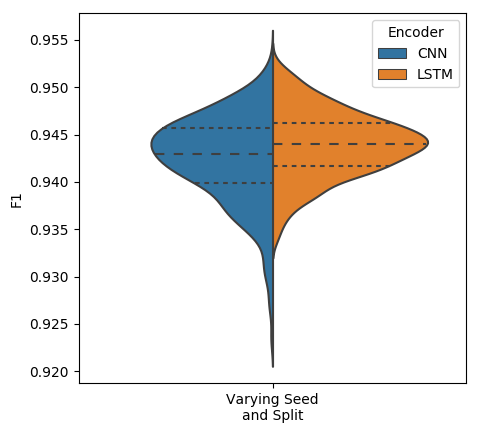
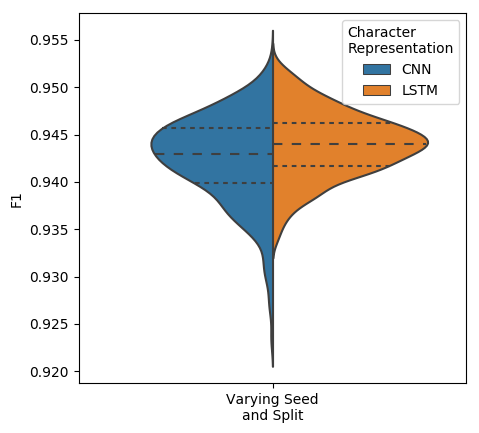
Better axes and legend names

Changed region(s): [[0.7015, 0.06, 0.9645, 0.2402]]

diff --git a/violin_plot_of_ner_scores.py b/violin_plot_of_ner_scores.py
@@ -97,9 +97,9 @@ if __name__ == '__main__':
                     for f1_value in f1_values:
                         f1_scores.append(f1_value)
                         encoder_names.append(encoder)
-                        training_method_names.append(f'Varying Seed\nfixed split {i}')
+                        training_method_names.append(f'Varying Seed\nFixed Split {i}')
                 
-    all_data = pd.DataFrame({'F1': f1_scores, 'Encoder': encoder_names, 
+    all_data = pd.DataFrame({'F1': f1_scores, 'Character\nRepresentation': encoder_names, 
                              'Training Method': training_method_names})
     
     plot_fp: Path = args.plot_fp
@@ -111,9 +111,9 @@ if __name__ == '__main__':
         large_data = all_data[all_data['Training Method'].isin(large_data_plot_names)]
         small_data = all_data[~all_data['Training Method'].isin(large_data_plot_names)]
         fig, axs = plt.subplots(1, 2, sharey=True, sharex=False, gridspec_kw = {'width_ratios':[1, 2]})
-        axs[0] = sns.violinplot(y="F1", x="Training Method", hue="Encoder",
+        axs[0] = sns.violinplot(y="F1", x="Training Method", hue="Character\nRepresentation",
                                data=large_data, inner="quartiles", split=True, ax=axs[0])
-        axs[1] = sns.violinplot(y="F1", x="Training Method", hue="Encoder",
+        axs[1] = sns.violinplot(y="F1", x="Training Method", hue="Character\nRepresentation",
                                data=small_data, inner="stick", split=True, ax=axs[1])
         axs[0].set_xlabel("")
         axs[0].get_legend().remove()
@@ -121,7 +121,7 @@ if __name__ == '__main__':
         axs[1].set_ylabel("")
         fig.savefig(str(plot_fp.resolve()), bbox_inches='tight')
     else:
-        ax = sns.violinplot(y="F1", x="Training Method", hue="Encoder",
+        ax = sns.violinplot(y="F1", x="Training Method", hue="Character\nRepresentation",
                             data=all_data, inner="quartiles", split=True)
         ax.set_xlabel("")
         fig = ax.figure
